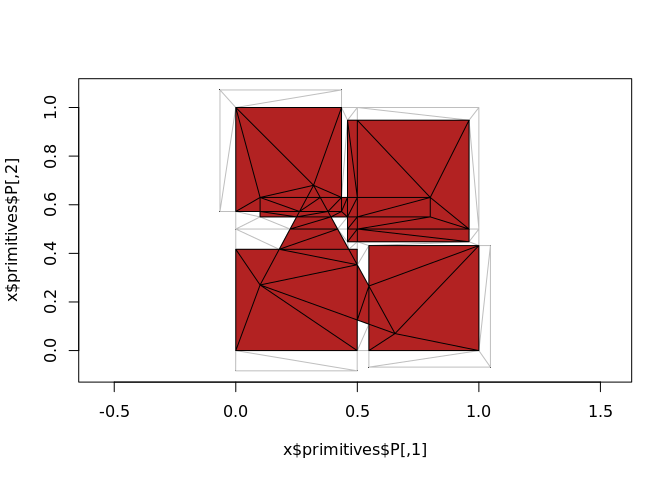
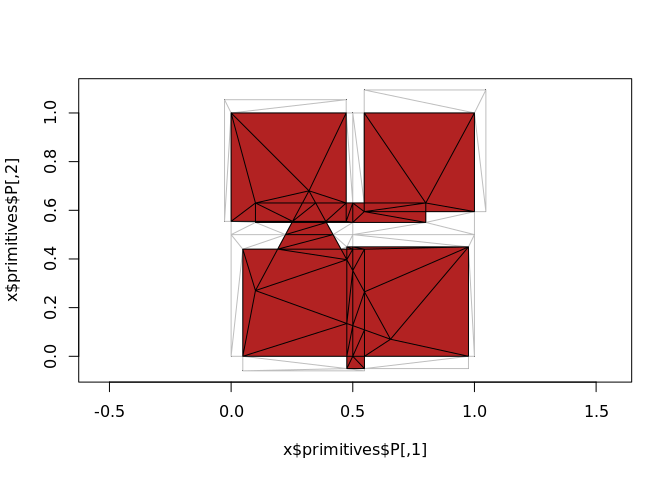
rename function

diff --git a/README.md b/README.md
@@ -41,7 +41,6 @@ has no connection to the sources.
 
 ## WIP
 
-  - spacebucket() needs a new name - polymer()?
   - holes are identifiable but not yet explicitly classified
   - extend sb\_intersection to return the right parts
   - write sensible return types and input attributes
@@ -73,7 +72,7 @@ plot(sf::st_geometry(C), col = "dodgerblue", add = TRUE)
 ``` r
 
 ## summarize the contents
-(bucket <- spacebucket(A, B, C))
+(bucket <- polymer(A, B, C))
 #> SPACE BUCKET:
 #> Layers:    3
 #> Polygons:  6
@@ -100,14 +99,14 @@ polymer:::sb_intersection(bucket, col = "firebrick")
 ``` r
 
 ## it works with pairs or with multiple layers
-polymer:::sb_intersection(spacebucket(A, B), col = "firebrick")
+polymer:::sb_intersection(polymer(A, B), col = "firebrick")
 ```
 
 <img src="man/figures/README-unnamed-chunk-1-2.png" width="100%" />
 
 ``` r
 
-polymer:::sb_intersection(spacebucket(C, B), col = "firebrick")
+polymer:::sb_intersection(polymer(C, B), col = "firebrick")
 ```
 
 <img src="man/figures/README-unnamed-chunk-1-3.png" width="100%" />
@@ -115,9 +114,9 @@ polymer:::sb_intersection(spacebucket(C, B), col = "firebrick")
 ``` r
 
 
-set.seed(sum(match(unlist(strsplit("spacebucket", "")), letters)))
+set.seed(sum(match(unlist(strsplit("polymer", "")), letters)))
 ## number of layers is arbitrary
-polymer:::sb_intersection(spacebucket(C, B, A, sf::st_jitter(A, 0.1)), col = "firebrick")
+polymer:::sb_intersection(polymer(C, B, A, sf::st_jitter(A, 0.1)), col = "firebrick")
 ```
 
 <img src="man/figures/README-unnamed-chunk-1-4.png" width="100%" />
@@ -138,7 +137,7 @@ plot(A["layer"], col = viridis::viridis(nrow(A)), reset = FALSE)
 plot(B, add = TRUE, col = "hotpink")
 plot(C, add = TRUE, col = "firebrick")
 
-sb <- spacebucket(A, B, C)
+sb <- polymer(A, B, C)
 plot(n_intersections(sb), add = TRUE, col = "grey")
 #> Warning in plot.sf(n_intersections(sb), add = TRUE, col = "grey"): ignoring
 #> all but the first attribute
@@ -161,19 +160,19 @@ tibble::as_tibble(x) %>%  dplyr::select(-geometry) %>% tidyr::unnest()
 #> # A tibble: 6 x 4
 #>   idx.triangle_idx  path object_ layer
 #>              <int> <int> <chr>   <int>
-#> 1               27     1 W9erlW     NA
-#> 2               27     5 U0UPUI     NA
-#> 3               27     6 p9902a     NA
-#> 4               39     1 W9erlW     NA
-#> 5               39     5 U0UPUI     NA
-#> 6               39     6 p9902a     NA
+#> 1               27     1 fKnsYK     NA
+#> 2               27     5 aeE2XL     NA
+#> 3               27     6 eojWXw     NA
+#> 4               39     1 fKnsYK     NA
+#> 5               39     5 aeE2XL     NA
+#> 6               39     6 eojWXw     NA
 ```
 
 ``` r
 plot(soil, col = sf::sf.colors(n = nrow(soil)), border = NA, reset = FALSE)
 plot(field, add = TRUE, col = NA)
 
-soil_field <- spacebucket(soil, field)
+soil_field <- polymer(soil, field)
 plot(n_intersections(soil_field), add = TRUE, border = rgb(0.5, 0.5, 0.5, 0.2))
 #> Warning in plot.sf(n_intersections(soil_field), add = TRUE, border =
 #> rgb(0.5, : ignoring all but the first attribute
@@ -202,7 +201,7 @@ library(sf)
  Polygons(list(Polygon(cbind(xpol+.4, ypol+.1))), ID="x5")
 ))
 pol <- st_as_sf(SpatialPolygonsDataFrame(disaggregate(pol), data.frame(a = 1:5)))
-(polb <- spacebucket(pol[1, ], pol[2, ], pol[3, ], pol[4, ], pol[5, ]))
+(polb <- polymer(pol[1, ], pol[2, ], pol[3, ], pol[4, ], pol[5, ]))
 #> SPACE BUCKET:
 #> Layers:    5
 #> Polygons:  5
